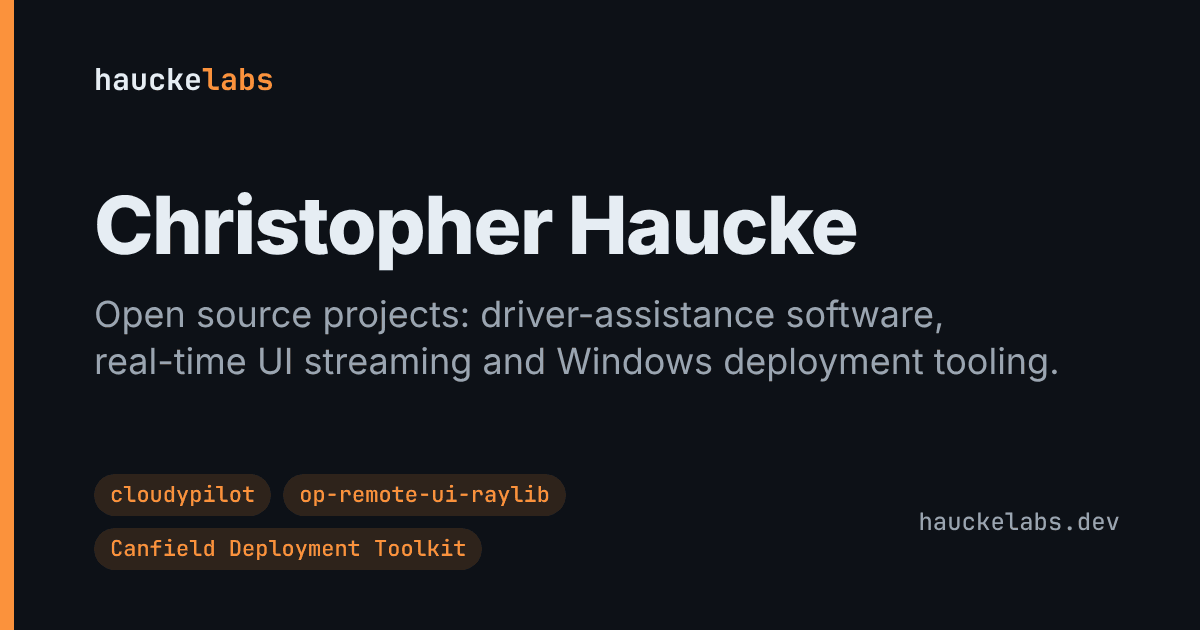
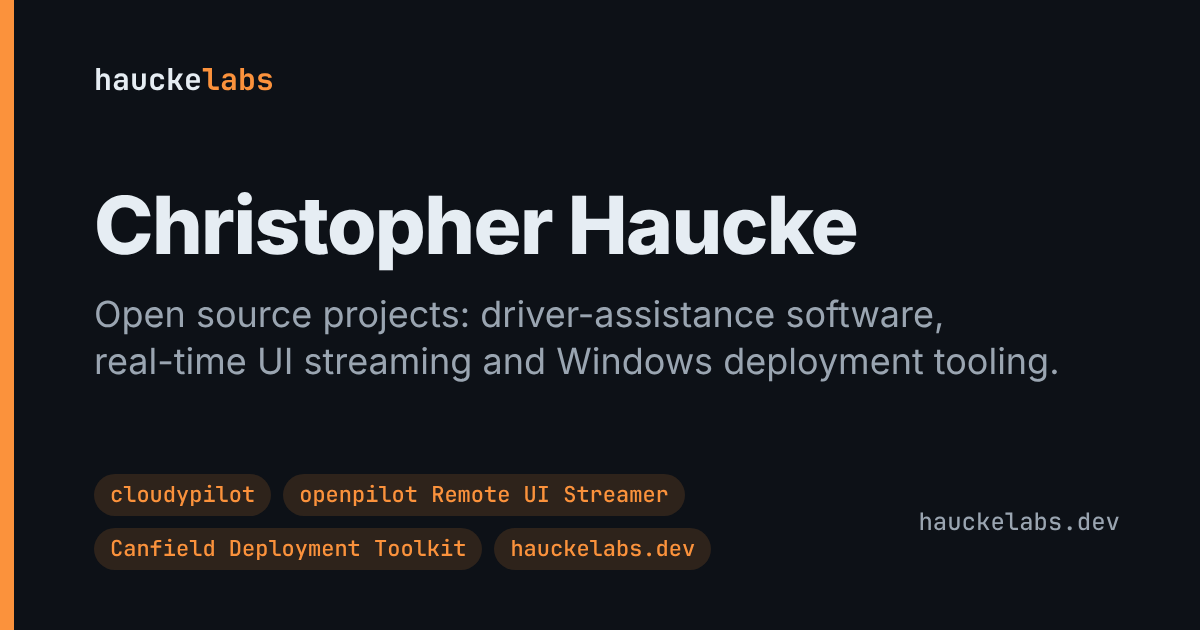
Add the site itself as a project (#9)
Assisted-by: Claude

Changed region(s): [[0.2775, 0.754, 0.6167, 0.9048]]

diff --git a/src/lib/diagrams.ts b/src/lib/diagrams.ts
@@ -492,8 +492,147 @@ const canfield: Diagram = {
 	]
 };
 
+const site: Diagram = {
+	title: 'How this site is built and where the live data comes from',
+	caption:
+		'The top row runs on every push. Below it, Home Assistant and the printer camera reach the site through Cloudflare without any open ports at home.',
+	width: 940,
+	height: 470,
+	groups: [
+		{ label: 'Build and deploy', x: 10, y: 20, w: 690, h: 110 },
+		{ label: 'Home network', x: 10, y: 140, w: 220, h: 320 },
+		{ label: 'Cloudflare', x: 250, y: 140, w: 450, h: 320 },
+		{ label: 'Visitor', x: 720, y: 20, w: 210, h: 440 }
+	],
+	nodes: [
+		{
+			id: 'push',
+			label: 'Push to master',
+			sub: 'GitHub',
+			x: 30,
+			y: 56,
+			kind: 'mine',
+			detail: 'Every change to the site starts as a commit on the master branch.'
+		},
+		{
+			id: 'builds',
+			label: 'Workers Builds',
+			sub: 'build + prerender',
+			x: 270,
+			y: 56,
+			kind: 'upstream',
+			detail:
+				'Cloudflare’s CI picks up each push, runs the SvelteKit build, prerenders every static page with the latest GitHub stats baked in, and deploys the Worker.'
+		},
+		{
+			id: 'static',
+			label: 'Prerendered pages',
+			sub: 'HTML, CSS, images',
+			x: 490,
+			y: 56,
+			kind: 'store',
+			detail:
+				'Home, About, project pages and the sitemap, served as static files from the nearest Cloudflare location. The browser refreshes GitHub stats on its own afterwards.'
+		},
+		{
+			id: 'ha',
+			label: 'Home Assistant',
+			sub: 'every 5 minutes',
+			x: 30,
+			y: 176,
+			kind: 'upstream',
+			detail:
+				'My home automation server. An automation sends a JSON snapshot of the readings I chose to share, with a bearer token, every five minutes.'
+		},
+		{
+			id: 'cam',
+			label: 'Printer camera',
+			sub: 'mjpg-streamer',
+			x: 30,
+			y: 376,
+			kind: 'upstream',
+			detail:
+				'A camera on my 3D printer that serves snapshots and an MJPEG stream on the local network only.'
+		},
+		{
+			id: 'ingest',
+			label: 'POST /api/lab',
+			sub: 'token + validation',
+			x: 270,
+			y: 176,
+			kind: 'mine',
+			detail:
+				'A Worker route that checks the token in constant time, caps the body size and keeps only well-formed readings before storing them.'
+		},
+		{
+			id: 'kv',
+			label: 'Workers KV',
+			sub: 'latest snapshot',
+			x: 270,
+			y: 276,
+			kind: 'store',
+			detail:
+				'A key-value store at the edge. It holds a single key: the most recent snapshot and the time the Worker received it.'
+		},
+		{
+			id: 'lab',
+			label: '/lab page',
+			sub: 'rendered per request',
+			x: 490,
+			y: 276,
+			kind: 'mine',
+			detail:
+				'Reads the snapshot from KV on every request and marks it live, stale or offline by its age. Its data requests are never cached.'
+		},
+		{
+			id: 'access',
+			label: 'Access + Tunnel',
+			sub: 'service token',
+			x: 270,
+			y: 376,
+			kind: 'upstream',
+			detail:
+				'Cloudflare Tunnel connects the camera outward to Cloudflare, and Cloudflare Access blocks anyone without a login or a service token.'
+		},
+		{
+			id: 'camera',
+			label: '/lab/camera',
+			sub: 'authenticated proxy',
+			x: 490,
+			y: 376,
+			kind: 'mine',
+			detail:
+				'Fetches the camera with the Access service token and streams the bytes straight to the browser, so visitors never see the camera’s address or need a login.'
+		},
+		{
+			id: 'browser',
+			label: 'Browser',
+			sub: 'desktop or phone',
+			x: 740,
+			y: 56,
+			h: 376,
+			kind: 'external',
+			detail:
+				'Loads the static pages, polls the Lab page every 30 seconds for new readings, and shows the camera as a snapshot or live stream.'
+		}
+	],
+	edges: [
+		{ from: 'push', to: 'builds' },
+		{ from: 'builds', to: 'static', label: 'deploy' },
+		{ from: 'static', to: 'browser', label: 'HTML' },
+		{ from: 'ha', to: 'ingest', label: 'snapshot' },
+		{ from: 'ingest', to: 'kv', label: 'store' },
+		{ from: 'kv', to: 'lab', label: 'read' },
+		{ from: 'lab', to: 'browser', label: 'poll', both: true },
+		{ from: 'cam', to: 'access', label: 'MJPEG' },
+		{ from: 'access', to: 'camera' },
+		{ from: 'camera', to: 'browser', label: 'stream' }
+	]
+};
+
 export const diagrams: Record<string, Diagram> = {
 	cloudypilot,
 	'op-remote-ui': remoteUi,
-	'canfield-deployment-toolkit': canfield
+	'canfield-deployment-toolkit': canfield,
+	'haucke-labs': site
 };

diff --git a/src/lib/projects.ts b/src/lib/projects.ts
@@ -147,6 +147,51 @@ export const projects: Project[] = [
 			'Refactoring a working script into a maintainable codebase',
 			'Automating builds and releases with CI'
 		]
+	},
+	{
+		slug: 'haucke-labs',
+		name: 'hauckelabs.dev',
+		tagline: 'This site: a mostly static portfolio with a live window into my homelab',
+		summary:
+			'The site you’re reading. It’s prerendered and served from Cloudflare’s edge, with a few routes that run on a Worker to show live readings from Home Assistant and a stream from my 3D printer’s camera.',
+		highlights: [
+			'SvelteKit prerendered to static pages, with only the live routes running per request',
+			'Home Assistant pushes readings to an authenticated endpoint that validates and stores them in KV',
+			'Printer camera proxied through a Cloudflare Access service token, so it never faces the internet',
+			'Interactive architecture diagrams drawn from plain data, with a text version for screen readers'
+		],
+		tech: ['TypeScript', 'SvelteKit', 'Cloudflare Workers', 'Workers KV', 'Home Assistant'],
+		repo: 'https://github.com/CHaucke89/haucke-labs',
+		role: 'Designed and built',
+		problem: [
+			'I wanted one place to show my projects in more depth than a GitHub README: why each one exists, what was hard about it and how the pieces connect.',
+			'I also wanted the site to be a project in its own right, with something live on it, without opening my home network to the internet or paying for a server that sits idle.'
+		],
+		built: [
+			'The site is built with SvelteKit and TypeScript and deployed to Cloudflare Workers. Every page that doesn’t change between visits is prerendered at build time, so most requests are just static files from the nearest Cloudflare location. Pushing to master triggers Workers Builds, which builds and deploys automatically.',
+			'The Lab page is the exception. Every five minutes Home Assistant pushes a snapshot of chosen sensor readings to an API route on the Worker, which checks a bearer token, validates every field and stores the result in Workers KV. The Lab page reads that snapshot on each request and refreshes itself every 30 seconds.',
+			'The printer camera lives on my home network behind a Cloudflare Tunnel protected by Cloudflare Access. The Worker holds an Access service token, fetches snapshots or the live MJPEG stream on the visitor’s behalf, and passes the bytes straight through.',
+			'Project pages pull live GitHub stats, and their architecture diagrams are defined as data and drawn as interactive SVG. Link preview images are rendered from HTML with headless Chrome.'
+		],
+		challenges: [
+			{
+				title: 'Live data without opening my network',
+				body: 'Instead of the site reaching into my house, Home Assistant pushes outward to the site. The endpoint compares tokens in constant time, caps the request size, and keeps only well-formed readings with length limits, because whatever it accepts ends up on a public page.'
+			},
+			{
+				title: 'A private camera on a public page',
+				body: 'An image on a public page can’t log in to Cloudflare Access, so the Worker authenticates instead and the camera’s address never reaches the browser. It refuses redirects to the login page and only passes through image or MJPEG responses, so an error page can never leak through.'
+			},
+			{
+				title: 'Static where possible, live where it matters',
+				body: 'Only three routes run per request. GitHub stats are baked in at build time and refreshed in the browser, so a rate-limited build still produces a working page. The Lab page’s data requests are never cached, so its 30-second refresh always gets fresh readings.'
+			}
+		],
+		learned: [
+			'Building for edge and serverless platforms, and choosing what to render ahead of time',
+			'Treating anything that ends up on a public page as untrusted input',
+			'Making interactive visuals accessible to keyboard and screen reader users'
+		]
 	}
 ];
 
